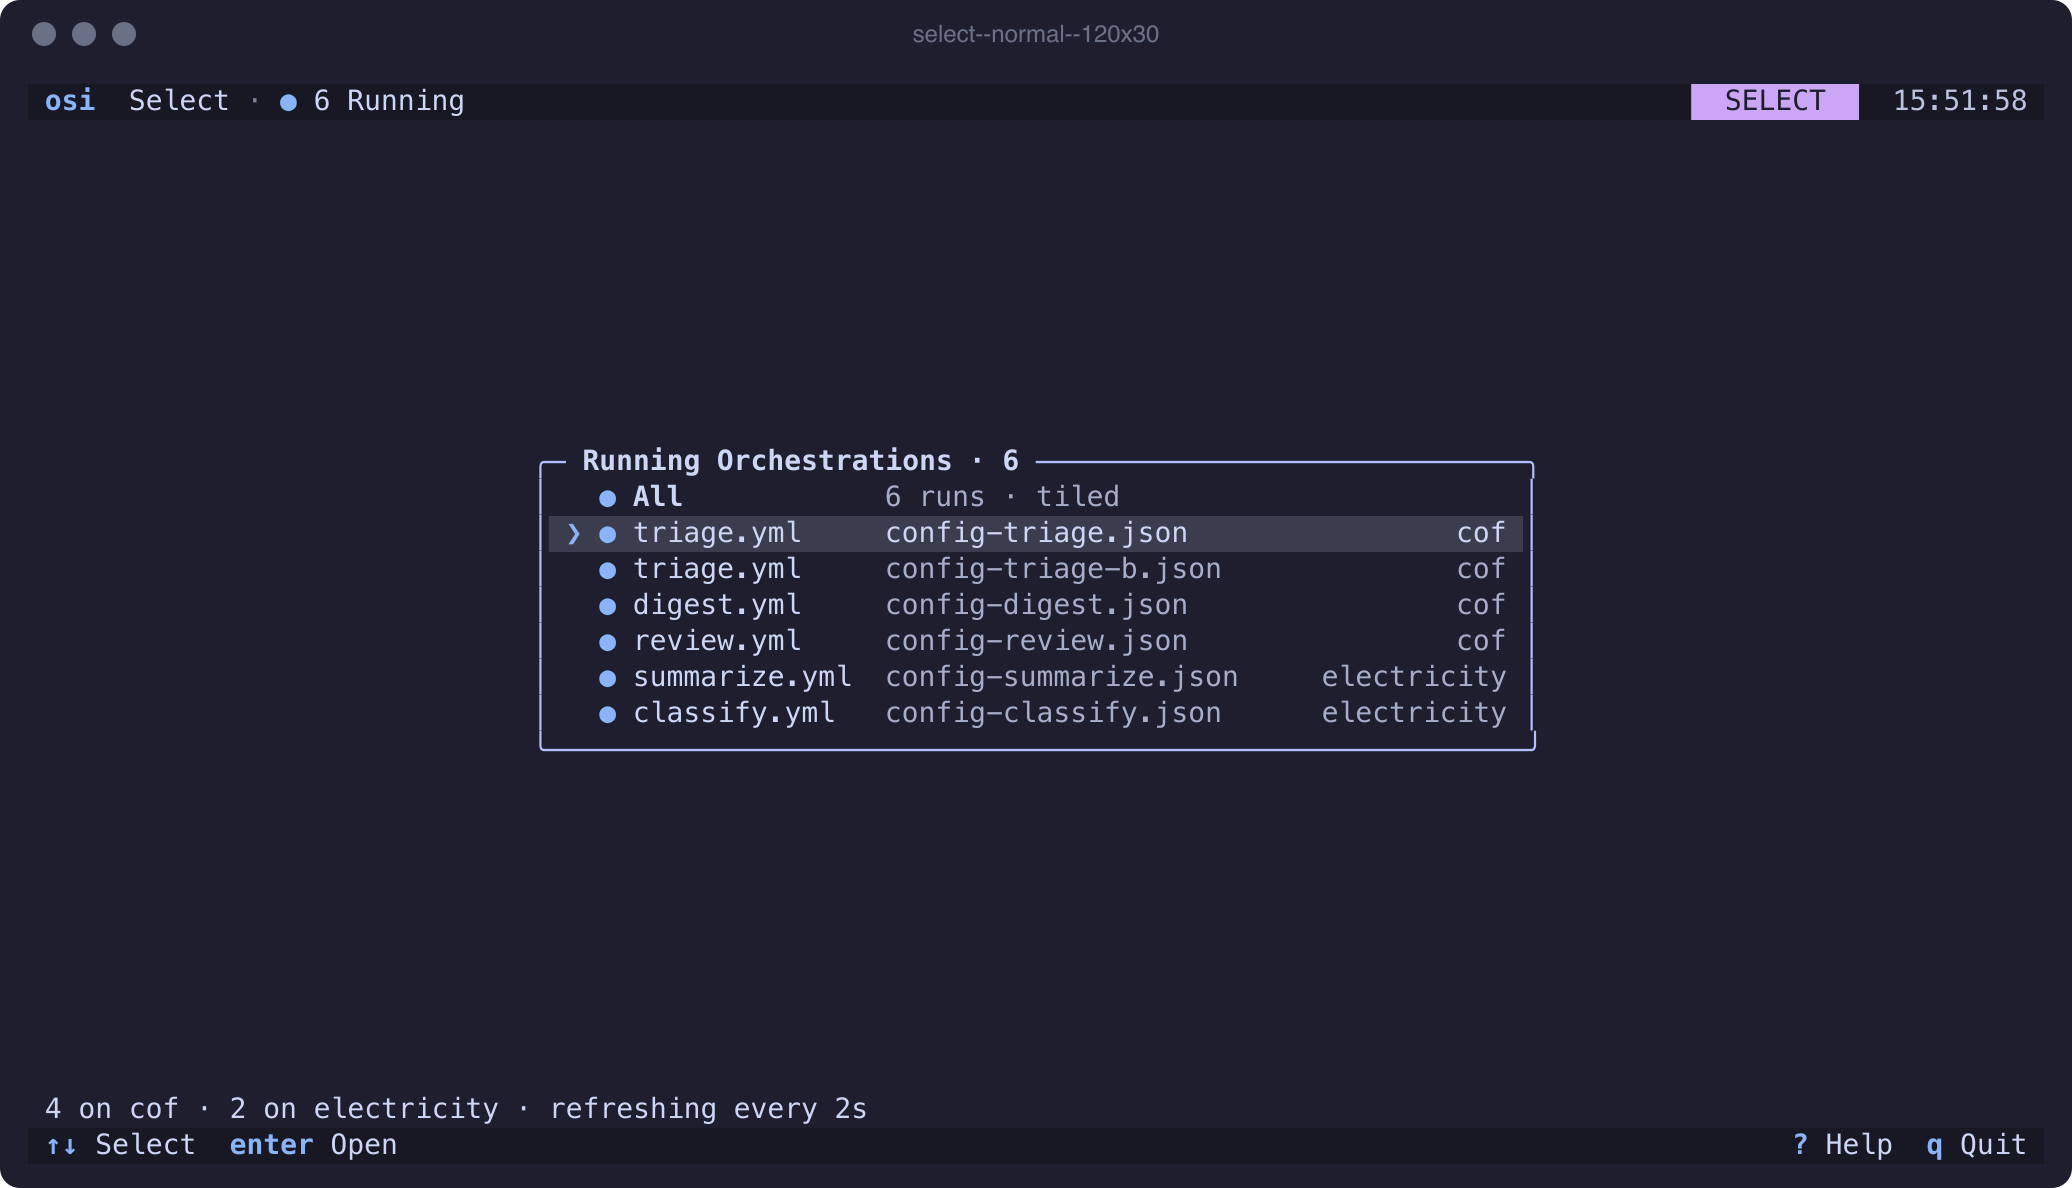
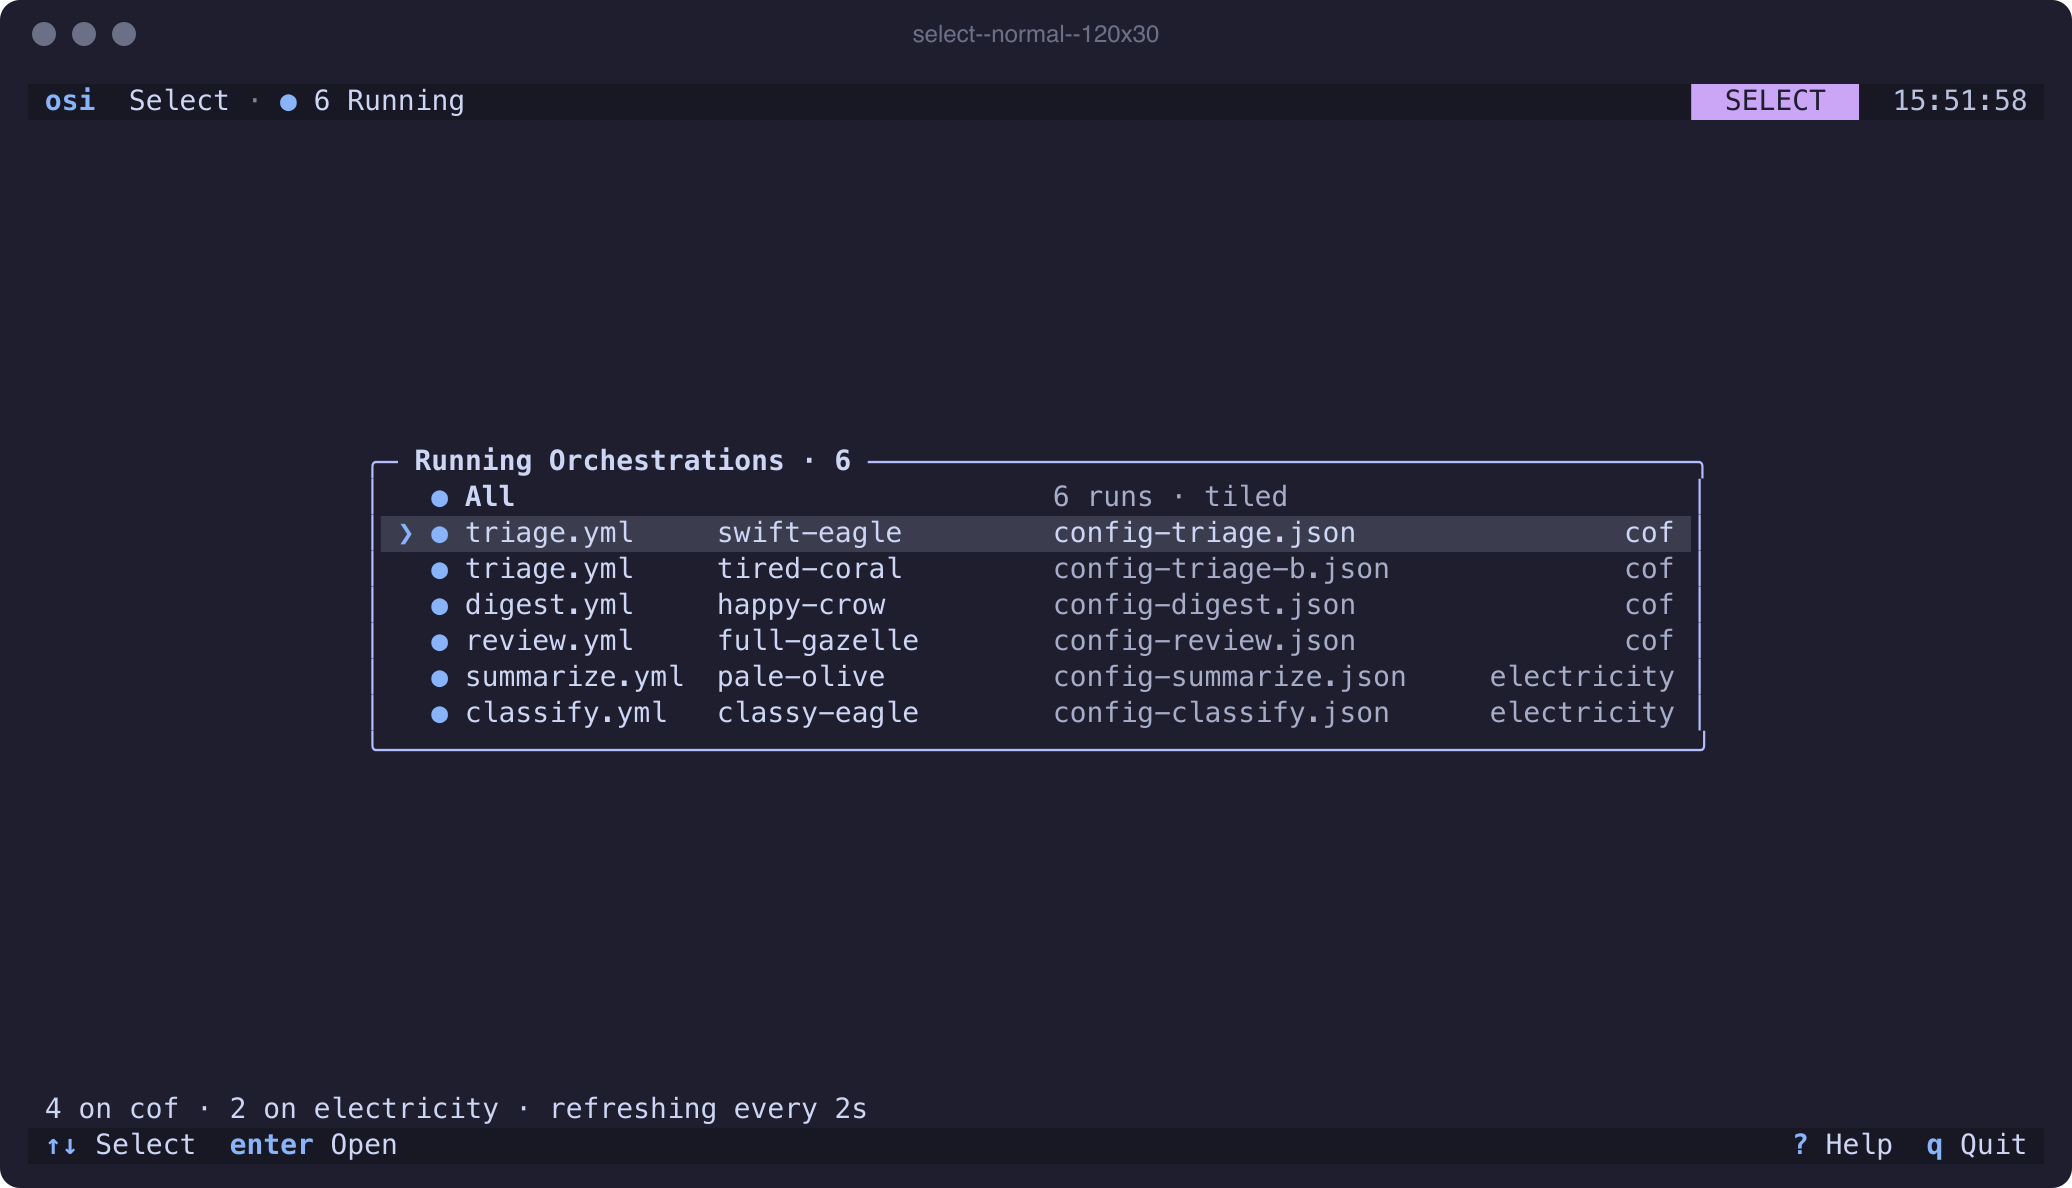
fix(osi): the Select running list names every row, not only the selected one
build_rows already disambiguated a name for each row, but select_row_spans
only threaded it into the selected row's own merged span; the unselected
rows' own spans were built straight from the document and config fields,
skipping the name entirely.

Changed region(s): [[0.1853, 0.3737, 0.834, 0.654], [0.7413, 0.3737, 0.8031, 0.4049]]

diff --git a/oscilloscope/crates/oscilloscope/src/tui.rs b/oscilloscope/crates/oscilloscope/src/tui.rs
@@ -4045,6 +4045,10 @@ fn select_row_spans(
                     .add_modifier(Modifier::BOLD),
             ),
             Span::styled(format!("{doc_text:<15}"), doc_style),
+            Span::styled(
+                format!("{name_text:<nw$}", nw = SELECT_NAME_COL_WIDTH),
+                Style::default().fg(ctx.theme.text),
+            ),
             Span::styled(tail, Style::default().fg(ctx.theme.fg_muted)),
         ]
     }
